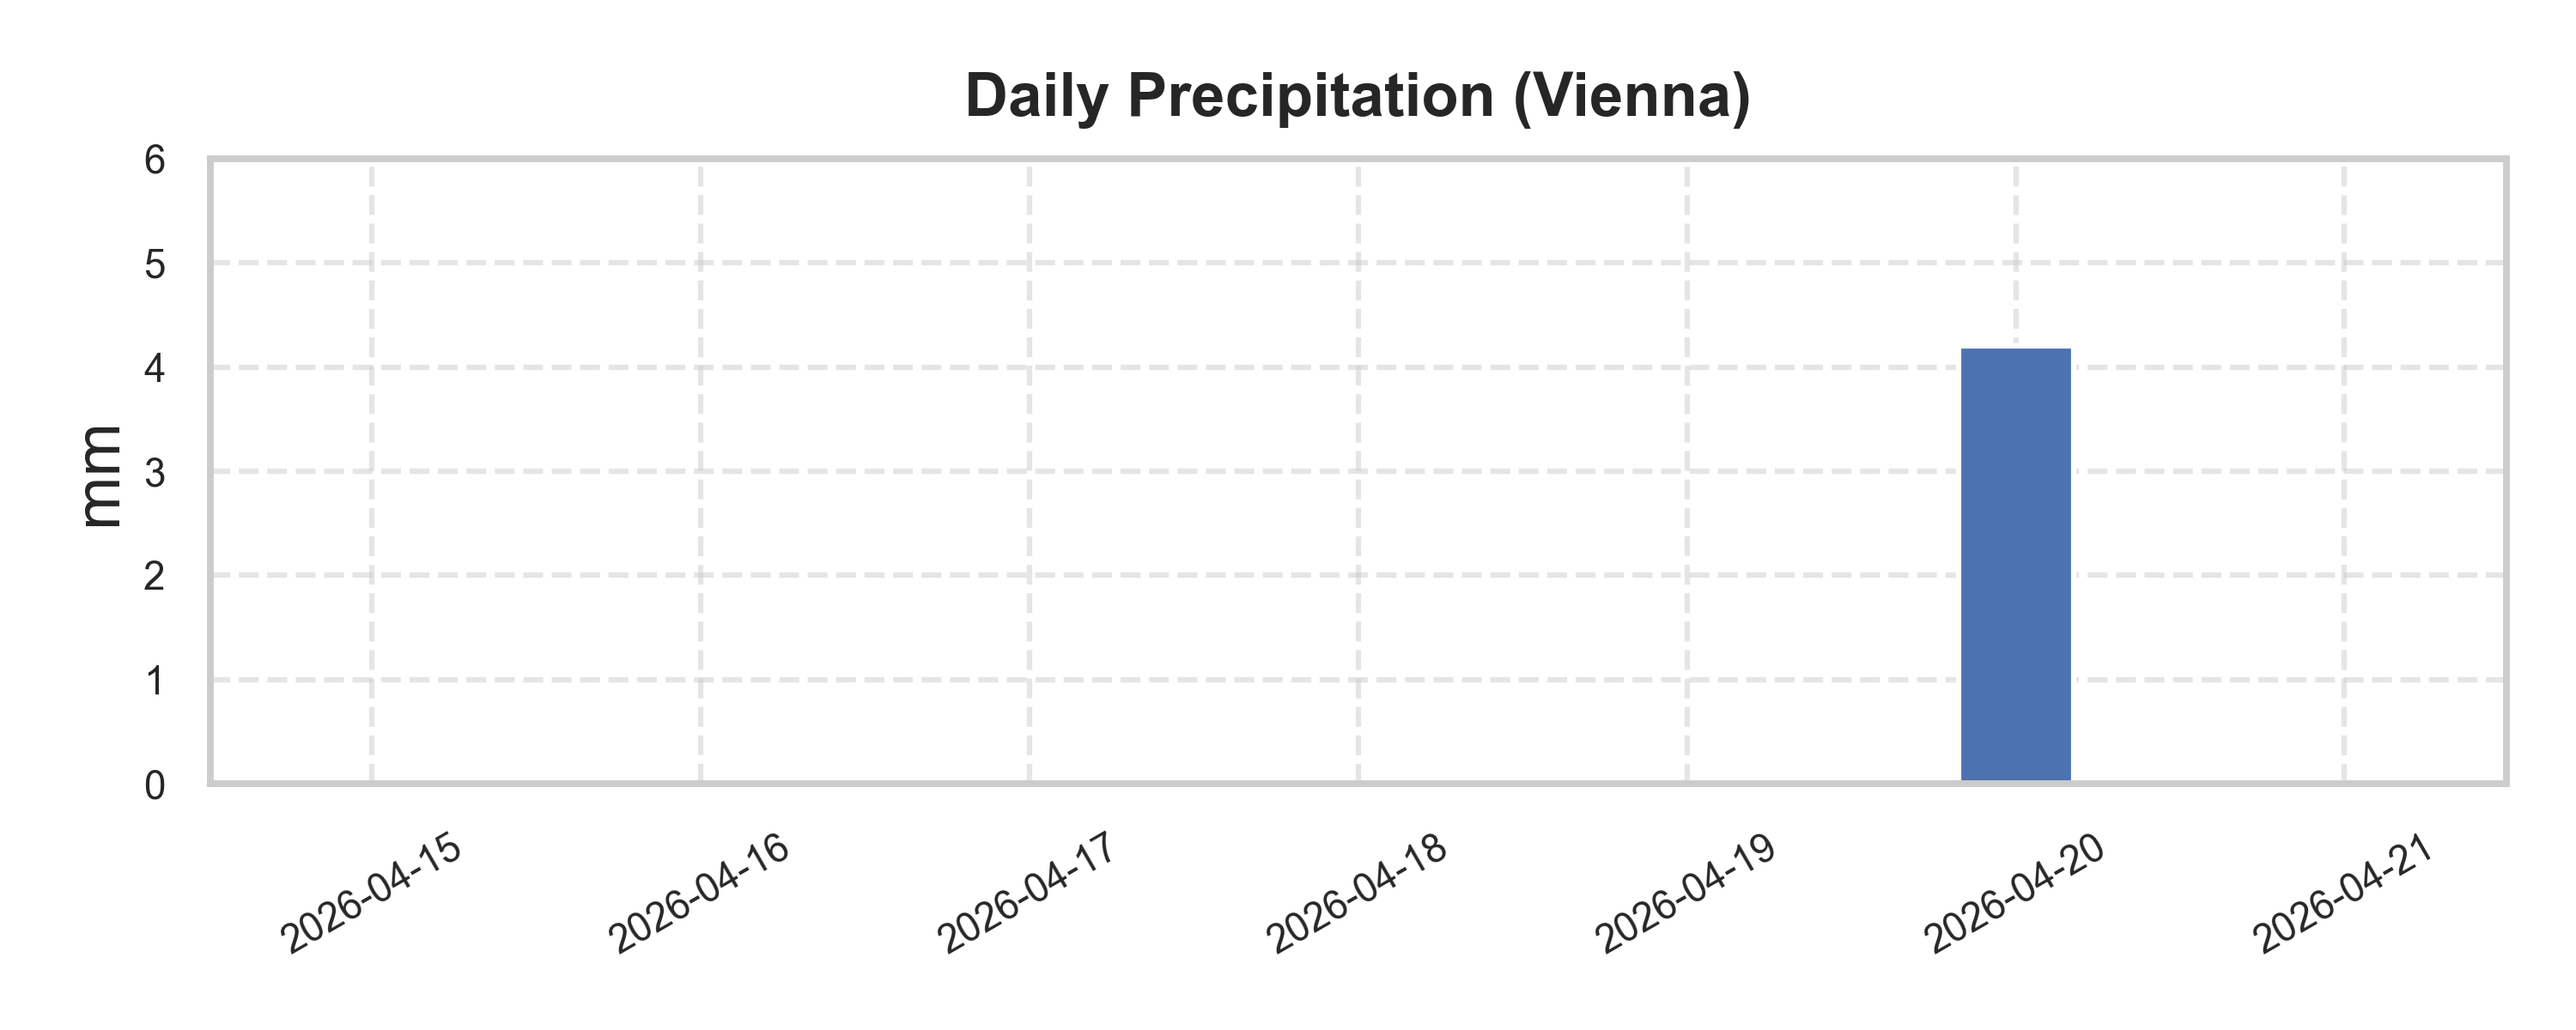
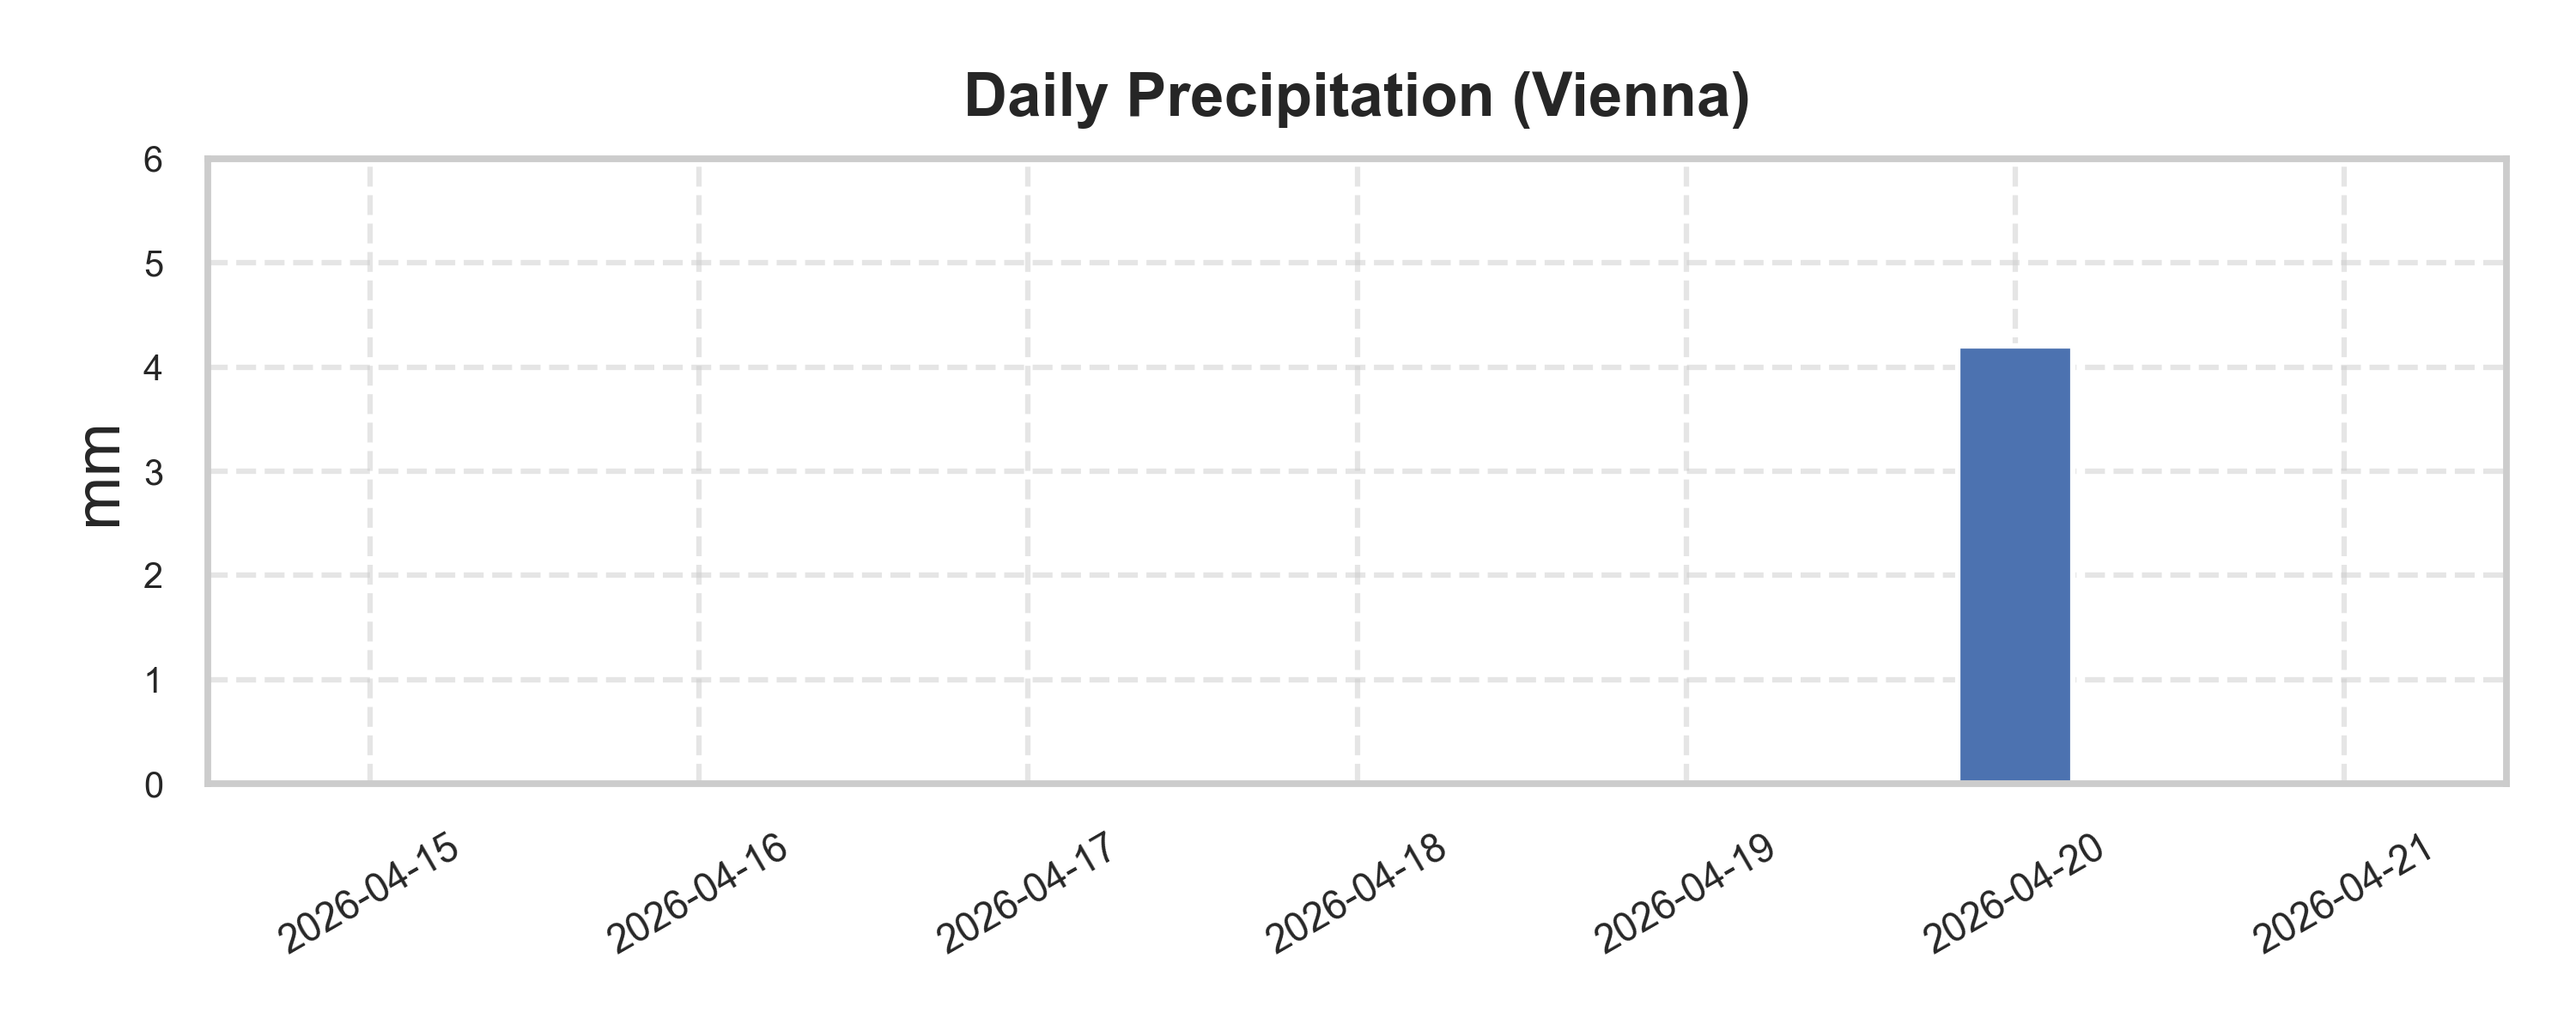
Decrease y-axis tick label size to improve readability

diff --git a/src/visualization.py b/src/visualization.py
@@ -24,7 +24,7 @@ def plot_weather(df):
     y_max = int(df["temp_max"].max())
     ax.set_yticks(np.arange(y_min, y_max + 2, 3))
 
-    ax.tick_params(axis='y', labelsize=11)
+    ax.tick_params(axis='y', labelsize=10)
 
     ax.legend(frameon=False)
     ax.grid(True, linestyle='--', alpha=0.5)
@@ -47,7 +47,7 @@ def plot_precipitation(df):
 
     ax.set_yticks(np.arange(0, y_max + 1))
 
-    ax.tick_params(axis='y', labelsize=11)
+    ax.tick_params(axis='y', labelsize=10)
 
     ax.legend(frameon=False)
     ax.grid(True, linestyle='--', alpha=0.5)
@@ -83,7 +83,7 @@ def plot_temperature_with_ma(df):
 
     ax.set_yticks(np.arange(y_min, y_max + 2))
     
-    ax.tick_params(axis='y', labelsize=11)
+    ax.tick_params(axis='y', labelsize=10)
 
     ax.legend(frameon=False)
     ax.grid(True, linestyle='--', alpha=0.5)
